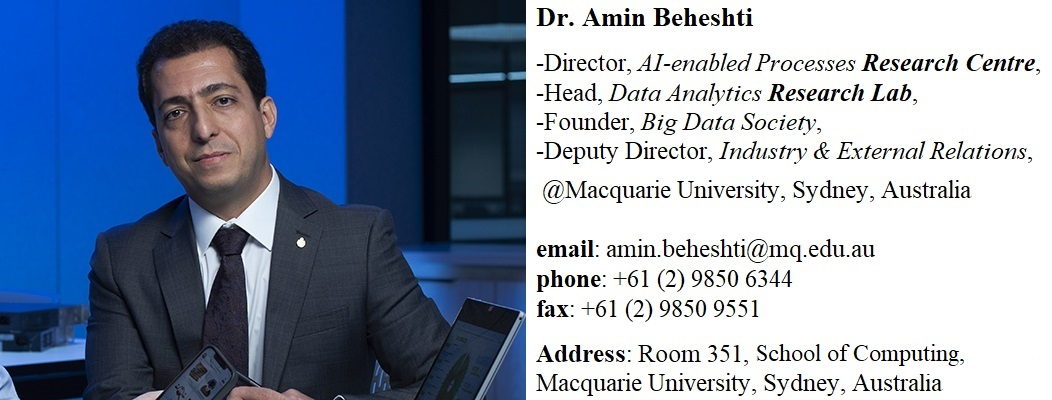
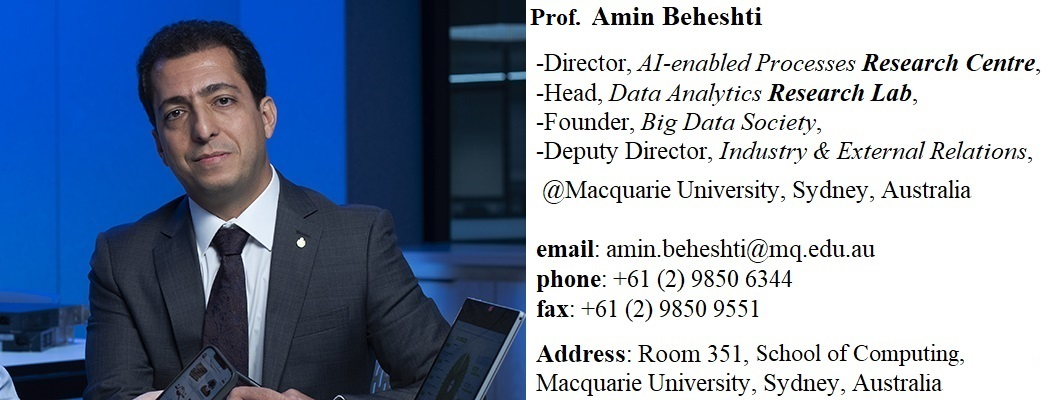
Add files via upload

Changed region(s): [[0.4867, 0.0, 0.73, 0.09]]

diff --git a/people/aminbeheshti/index.html b/people/aminbeheshti/index.html
@@ -52,8 +52,7 @@
 <table border="0" width="100%">
     <tr>
         <td style="text-align:justify">
-            Dr. Amin Beheshti is the Director of <a href="https://aip-research-center.github.io/" target="_blank">AI-enabled Processes (AIP) Research Centre</a> and the head of the <a href="https://data-science-group.github.io" target="_blank">Data Analytics Research Lab</a>, School of Computing, Macquarie University. 
-            He is also a Senior Lecturer (equivalent to Associate Professor in the USA) in Data Science at <a href="https://www.mq.edu.au/">Macquarie University</a> and an Adjunct Academic in Computer Science at <a href="https://www.unsw.edu.au/">UNSW Sydney</a>. Amin completed his Ph.D. and Postdoc in Computer Science and Engineering in UNSW Sydney and holds a Master and Bachelor in Computer Science both with First Class Honours. In addition to his contribution to teaching activities, Amin extensively contributed to research projects; where he was the R&amp;D Team Lead and Key Researcher in the 'Case Walls &amp; Data Curation Foundry' and 'Big Data for Intelligence' projects. Amin has been recognized as a high-quality researcher in Big-Data/Data/Process Analytics and has been invited to serve and served as <a href="#C4">Keynote Speaker, General-Chair, PC-Chair, Organisation-Chair, and program committee member</a> of top international conferences. He is the leading author of the book entitled "<a href="https://www.springer.com/gp/book/9783319250366" target="_blank">Process Analytics</a>", co-authored with other high-profile researchers in UNSW and IBM research, recently published by Springer.
+            Prof. Amin Beheshti is a full Professor in Data Science and the Director of <a href="https://aip-research-center.github.io/" target="_blank">AI-enabled Processes (AIP) Research Centre</a>, School of Computing, Macquarie University. Amin is also the head of the <a href="https://data-science-group.github.io" target="_blank">Data Analytics Research Lab</a> and Adjunct Academic in Computer Science at <a href="https://www.unsw.edu.au/">UNSW Sydney</a>. Amin completed his Ph.D. and Postdoc in Computer Science and Engineering in UNSW Sydney and holds a Master and Bachelor in Computer Science both with First Class Honours. In addition to his contribution to teaching activities, Amin extensively contributed to research projects; where he was the R&amp;D Team Lead and Key Researcher in the 'Case Walls &amp; Data Curation Foundry' and 'Big Data for Intelligence' projects. Amin has been recognized as a high-quality researcher in Big-Data/Data/Process Analytics and has been invited to serve and served as <a href="#C4">Keynote Speaker, General-Chair, PC-Chair, Organisation-Chair, and program committee member</a> of top international conferences. He is the leading author of the book entitled "<a href="https://www.springer.com/gp/book/9783319250366" target="_blank">Process Analytics</a>", co-authored with other high-profile researchers in UNSW and IBM research, recently published by Springer.
             Amin was able to secure over <b>$9.8 Million Research Grants</b> for AI-Enabled, Data-Driven, and Intelligence-Led projects.
         </td> 
     </tr>
